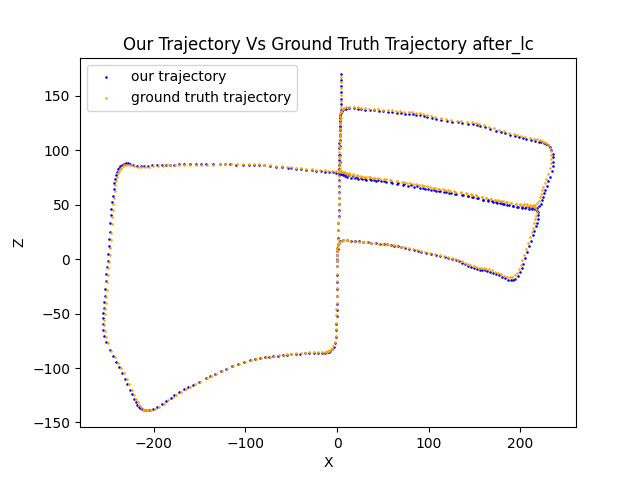
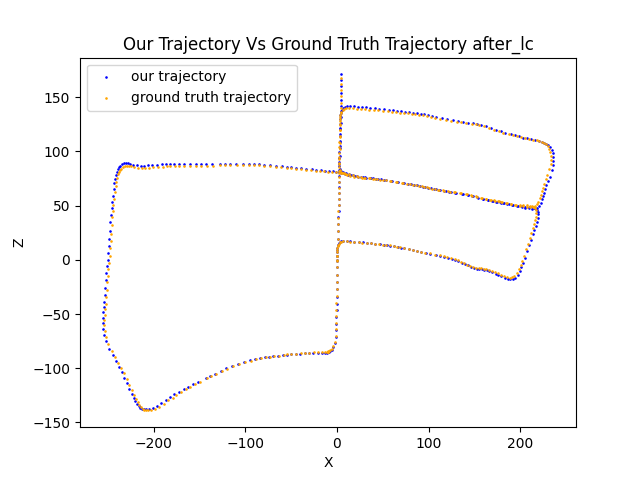
adjusted filtering in loop closure

diff --git a/models/TrajectorySolver.py b/models/TrajectorySolver.py
@@ -83,6 +83,10 @@ class TrajectorySolver:
         """
         return self.__matcher
 
+    def get_trajectory_from_poses(self, poses):
+        trajectory = np.array([pose.translation() for pose in poses])
+        return trajectory
+
 
 class PNP(TrajectorySolver):
 
@@ -93,8 +97,9 @@ class PNP(TrajectorySolver):
         super().__init__(track_db)
         self.force_recompute = force_recompute
 
-    def compare_trajectory_to_gt(self):
-        plot_trajectories(self._track_db.camera_positions, self._gt_trajectory)
+    def compare_trajectory_to_gt(self, path_suffix=""):
+        plot_trajectories(self._track_db.camera_positions, self._gt_trajectory, path=PATH_TO_SAVE_COMPARISON_TO_GT_PNP + path_suffix,
+                          suffix="(PNP)")
 
     def solve_trajectory(self):
         if self.force_recompute or self.get_deserialization_result() != SUCCESS:
@@ -138,16 +143,16 @@ class BundleAdjustment(TrajectorySolver):
         self._final_estimated_trajectory = get_trajectory_from_graph(initial_estimates)
         self._gt_trajectory = get_gt_trajectory()[key_frames]
 
-    def compare_trajectory_to_gt(self):
+    def compare_trajectory_to_gt(self, path_suffix=""):
         gt_camera_positions = get_gt_trajectory()
         try:
             plot_trajectories(camera_positions=self._final_estimated_trajectory, gt_camera_positions=gt_camera_positions,
-                              points_3d=None, path=PATH_TO_SAVE_COMPARISON_TO_GT)
+                              points_3d=None, path=PATH_TO_SAVE_COMPARISON_TO_GT_BUNDLE_ADJUSTMENT + path_suffix, suffix="(BUNDLE ADJUSTMENT)")
         except AttributeError as e:
             print(f"{e}.\nRunning solve_trajectory...")
             self.solve_trajectory()
             plot_trajectories(camera_positions=self._final_estimated_trajectory, gt_camera_positions=gt_camera_positions,
-                              points_3d=None, path=PATH_TO_SAVE_COMPARISON_TO_GT)
+                              points_3d=None, path=PATH_TO_SAVE_COMPARISON_TO_GT_BUNDLE_ADJUSTMENT + path_suffix, suffix="(BUNDLE ADJUSTMENT)")
 
     def get_rotation_error(self):
 
@@ -160,19 +165,19 @@ class BundleAdjustment(TrajectorySolver):
         #     translation, rotation = get_translation_rotation_diff(pred_pose, gt_pose)
         #     print(translation)
 
-    def get_absolute_localization_error(self):
+    def get_absolute_localization_error(self, path_suffix=""):
 
         try:
             plot_localization_error_over_time(self.key_frames, camera_positions=self._final_estimated_trajectory,
                                           gt_camera_positions=self._gt_trajectory,
-                                              path=PATH_TO_SAVE_LOCALIZATION_ERROR_BUNDLE_ADJUSTMENT,
+                                              path=PATH_TO_SAVE_LOCALIZATION_ERROR_BUNDLE_ADJUSTMENT + path_suffix,
                                               mode="Bundle Adjustment")
         except AttributeError as e:
             print(f"{e}.\nRunning solve_trajectory...")
             self.solve_trajectory()
             plot_localization_error_over_time(self.key_frames, camera_positions=self._final_estimated_trajectory,
                                               gt_camera_positions=self._gt_trajectory,
-                                              path=PATH_TO_SAVE_LOCALIZATION_ERROR_BUNDLE_ADJUSTMENT,
+                                              path=PATH_TO_SAVE_LOCALIZATION_ERROR_BUNDLE_ADJUSTMENT + path_suffix,
                                               mode="Bundle Adjustment")
 
     def get_final_estimated_trajectory(self):
@@ -183,12 +188,12 @@ class LoopClosure(TrajectorySolver):
 
     def __init__(self,track_db):
         super().__init__(track_db)
-        self.__global_3d_points_numpy = None
-        self.__global_Rt_poses_in_numpy = None
-        self.__pose_graph = None
-        self.__our_trajectory = None
-        self.__cur_pose_graph_estimates = None
-        self.__successful_lc = None
+        self._global_3d_points_numpy = None
+        self._global_Rt_poses_in_numpy = None
+        self._pose_graph = None
+        self._initial = None
+        self._cur_pose_graph_estimates = None
+        self._successful_lc = None
         self.bundle_results = None
         self.optimized_global_keyframes_poses = []
         self.bundle_3d_points = None
@@ -197,6 +202,7 @@ class LoopClosure(TrajectorySolver):
         self.key_frames = None
         self._final_estimated_trajectory = None
         self._good_mahalanobis_candidates = None
+        self._initial_trajectory = None
 
 
     def solve_trajectory(self):
@@ -210,57 +216,71 @@ class LoopClosure(TrajectorySolver):
                                                                      cond_matrices)
         kf_to_covariance = {self.key_frames[i + 1]: cond_matrices[i] for i in range(len(cond_matrices))}
         cond_matrices = [cond_matrix * 10 for cond_matrix in cond_matrices]
-        self.__initial_trajectory = optimized_global_keyframes_poses
-        self.__pose_graph, self.__cur_pose_graph_estimates, self.__successful_lc, good_ms = loop_closure(pose_graph, self.key_frames,
-                                                                           matcher=super().get_matcher(), cond_matrices=cond_matrices,
-                                                                           mahalanobis_thresh=MAHALANOBIS_THRESH,
-                                                                           pose_graph_initial_estimates=initial_estimates,
-                                                                           draw_supporting_matches_flag=False,
-                                                                           points_to_stop_by=False
-                                                                           )
+        self._initial_trajectory = self.get_trajectory_from_poses(optimized_global_keyframes_poses)
+        self._pose_graph, self._cur_pose_graph_estimates, self._successful_lc, good_ms = loop_closure(pose_graph, self.key_frames,
+                                                                                                      matcher=super().get_matcher(), cond_matrices=cond_matrices,
+                                                                                                      mahalanobis_thresh=MAHALANOBIS_THRESH,
+                                                                                                      pose_graph_initial_estimates=initial_estimates,
+                                                                                                      draw_supporting_matches_flag=False,
+                                                                                                      points_to_stop_by=False
+                                                                                                      )
         self._good_mahalanobis_candidates = [(c[1], c[2]) for c in good_ms]
+        self._final_estimated_trajectory = self.get_final_estimated_trajectory()
+        self._gt_trajectory = get_gt_trajectory()[self.key_frames]
         self.show_all_loops_on_trajectory()
-        self._final_estimated_trajectory = self.get_final_estimated_trajectory(self.__cur_pose_graph_estimates)
 
-    def compare_trajectory_to_gt(self):
+    def compare_trajectory_to_gt(self, path_suffix=""):
+        gt_camera_positions = get_gt_trajectory()
         try:
-            plot_pg_locations_before_and_after_lc(self.__pose_graph, self.__cur_pose_graph_estimates)
+            plot_trajectories(camera_positions=self._final_estimated_trajectory, gt_camera_positions=gt_camera_positions,
+                              points_3d=None, path=PATH_TO_SAVE_COMPARISON_TO_GT_LOOP_CLOSURE + path_suffix, suffix="(LOOP CLOSURE)")
         except AttributeError as e:
             print(f"{e}.\nRunning solve_trajectory...")
             self.solve_trajectory()
-            plot_pg_locations_before_and_after_lc(self.__pose_graph, self.__cur_pose_graph_estimates)
+            plot_trajectories(camera_positions=self._final_estimated_trajectory, gt_camera_positions=gt_camera_positions,
+                              points_3d=None, path=PATH_TO_SAVE_COMPARISON_TO_GT_LOOP_CLOSURE + path_suffix, suffix="(LOOP CLOSURE)")
 
-    def get_absolute_localization_error(self):
+    def get_absolute_localization_error(self, path_suffix=""):
         try:
-            plot_pg_locations_error_graph_before_and_after_lc(self.__pose_graph, self.__cur_pose_graph_estimates)
+            plot_localization_error_over_time(self.key_frames, camera_positions=self._final_estimated_trajectory,
+                                              gt_camera_positions=self._gt_trajectory,
+                                              path=PATH_TO_SAVE_LOCALIZATION_ERROR_LOOP_CLOSURE_AFTER + path_suffix,
+                                              mode="Loop Closure")
         except AttributeError as e:
             print(f"{e}.\nRunning solve_trajectory...")
             self.solve_trajectory()
-            plot_pg_locations_error_graph_before_and_after_lc(self.__pose_graph, self.__cur_pose_graph_estimates)
+            plot_localization_error_over_time(self.key_frames, camera_positions=self._final_estimated_trajectory,
+                                              gt_camera_positions=self._gt_trajectory,
+                                              path=PATH_TO_SAVE_LOCALIZATION_ERROR_LOOP_CLOSURE_AFTER + path_suffix,
+                                              mode="Loop Closure")
 
     def show_uncertainty(self):
         try:
-            plot_pg_uncertainty_before_and_after_lc(self.__pose_graph, self.__cur_pose_graph_estimates)
+            plot_pg_uncertainty_before_and_after_lc(self._pose_graph, self._cur_pose_graph_estimates)
         except AttributeError as e:
             print(f"{e}.\nRunning solve_trajectory...")
             self.solve_trajectory()
-            plot_pg_uncertainty_before_and_after_lc(self.__pose_graph, self.__cur_pose_graph_estimates)
+            plot_pg_uncertainty_before_and_after_lc(self._pose_graph, self._cur_pose_graph_estimates)
 
     def get_final_estimated_trajectory(self):
-        return get_trajectory_from_graph(self.__cur_pose_graph_estimates)
+        return get_trajectory_from_graph(self._cur_pose_graph_estimates)
 
     def get_successful_lc(self):
-        return self.__successful_lc
+        return self._successful_lc
 
     def show_loop_between_two_keyframes(self, kf_1, kf_2, suffix=""):
-        assert (kf_1, kf_2) in self.__successful_lc or (kf_2, kf_1) in self.__successful_lc, "Can only show existing loop..."
+        assert (kf_1, kf_2) in self._successful_lc or (kf_2, kf_1) in self._successful_lc, "Can only show existing loop..."
         from utils.plotters import plot_loop_between_two_frames
         plot_loop_between_two_frames(self._final_estimated_trajectory, kf_1, kf_2, self.key_frames, path=f"plots/lc_{suffix}_")
 
-    def show_all_loops_on_trajectory(self, suffix=""):
+    def show_all_loops_on_trajectory(self, trajectory=None, suffix=""):
         from utils.plotters import plot_trajectory_with_loops
-        plot_trajectory_with_loops(self.get_final_estimated_trajectory(), self.__successful_lc, path=f"plots/lc_{suffix}_")
+        if trajectory is None:
+            trajectory = self._final_estimated_trajectory if self._final_estimated_trajectory is not None else self._initial_trajectory
+        plot_trajectory_with_loops(trajectory, self._successful_lc, path=f"plots/lc_{suffix}_")
 
-    def show_given_loops_on_trajectory(self, given_loops, suffix="given_loops"):
+    def show_given_loops_on_trajectory(self, given_loops, trajectory=None, suffix="given_loops"):
         from utils.plotters import plot_trajectory_with_loops
-        plot_trajectory_with_loops(self.get_final_estimated_trajectory(), given_loops, path=f"plots/lc_{suffix}_")
+        if trajectory is None:
+            trajectory = self._final_estimated_trajectory if self._final_estimated_trajectory is not None else self._initial_trajectory
+        plot_trajectory_with_loops(trajectory, given_loops, path=f"plots/lc_{suffix}_")

diff --git a/models/LoopClosure.py b/models/LoopClosure.py
@@ -28,8 +28,8 @@ def edge_cost_func(cond_mat=None, equal=False):
         return 0.000000001 * np.sqrt(1 / np.linalg.det(10 * cond_mat))
 
 
-def init_graph_for_shortest_path(pose_graph, key_frames, cond_matrices):
-    graph_for_shortest_path = dijkstar.Graph()
+def init_graph_for_shortest_path(pose_graph, key_frames, cond_matrices, undirected=False):
+    graph_for_shortest_path = dijkstar.Graph(undirected=undirected)
     edge_to_covariance = {}
     costs = []
     for i in range(len(key_frames) - 1):
@@ -53,7 +53,8 @@ def estimate_covariance_by_path(path, edge_to_covariance):
     for i in range(len(path) - 1):
         first = path[i]
         second = path[i + 1]
-        estimated_cov += edge_to_covariance[(first, second)]
+        edge = (first, second) if (first, second) in edge_to_covariance else (second, first)
+        estimated_cov += edge_to_covariance[edge]
     return estimated_cov
 
 
@@ -188,24 +189,31 @@ def solve_trivial_bundle(reference_kf, candidate_kf, matching_data):
     factor_graph, initial_estimates, landmarks = create_trivial_factor_graph(reference_kf, candidate_kf, Rt, filtered_tracks)
     optimizer = gtsam.LevenbergMarquardtOptimizer(factor_graph, initial_estimates)
     try:
+        conditional_covariance = np.eye(6)
         optimized_estimates = optimizer.optimize()
+        key_vectors = gtsam.KeyVector()
+        key_vectors.append(gtsam.symbol(CAMERA, candidate_kf))
+        key_vectors.append(gtsam.symbol(CAMERA, reference_kf))  # TODO maybe its the other way around...
+        try:
+            bundle_joint_covariance = gtsam.Marginals(factor_graph, optimized_estimates)
+            information_mat_cick = bundle_joint_covariance.jointMarginalInformation(key_vectors).fullMatrix()
+            conditional_covariance = np.linalg.inv(information_mat_cick[6:, 6:])
+        except RuntimeError as e:
+            print('\033[91m' + f"Caught Exception When Calculating Marginals: {e}" + '\033[0m')
+
+        relative_pose = get_relative_pose_between_frames(candidate_kf, reference_kf,
+                                                         optimized_estimates)  # I think we want reference relative to candidate
+        return relative_pose, conditional_covariance, factor_graph, optimized_estimates
     except RuntimeError as e:
-        print(e)
+        print('\033[91m' + f"Caught Exception When Optimizing Trivial Bundle: {e}" + '\033[0m')
         return None
-    key_vectors = gtsam.KeyVector()
-    key_vectors.append(gtsam.symbol(CAMERA, candidate_kf))
-    key_vectors.append(gtsam.symbol(CAMERA, reference_kf))  # TODO maybe its the other way around...
-    bundle_joint_covariance = gtsam.Marginals(factor_graph, optimized_estimates)
-    information_mat_cick = bundle_joint_covariance.jointMarginalInformation(key_vectors).fullMatrix()
-    conditional_covariance = np.linalg.inv(information_mat_cick[6:, 6:])
-    relative_pose = get_relative_pose_between_frames(candidate_kf, reference_kf, optimized_estimates) # I think we want reference relative to candidate
-    return relative_pose, conditional_covariance, factor_graph, optimized_estimates
+
 
 
 def loop_closure(pose_graph, key_frames, cond_matrices, pose_graph_initial_estimates, matcher,
                  mahalanobis_thresh=MAHALANOBIS_THRESH, max_candidates_num=5, min_diff_between_loop_frames=30,
                  req_inliers_ratio=0.85, draw_supporting_matches_flag=False, points_to_stop_by=False,
-                 compare_to_gt=False, show_localization_error=False, show_uncertainty=False):
+                 compare_to_gt=False, show_localization_error=False, show_uncertainty=False, minimal_number_of_visual_matches=30):
     graph_for_shortest_path, edge_to_covariance = \
         init_graph_for_shortest_path(pose_graph=pose_graph, key_frames=key_frames, cond_matrices=cond_matrices)
     cur_pose_graph_estimates = pose_graph_initial_estimates
@@ -241,18 +249,19 @@ def loop_closure(pose_graph, key_frames, cond_matrices, pose_graph_initial_estim
         if len(candidates_with_small_m_distance) > 0:
             print(f"for the {i}th KeyFrame, found {len(candidates_with_small_m_distance)} candidates to perform visual odometry with.\nContinuing with {min(max_candidates_num, len(candidates_with_small_m_distance))} best candidates")
         best_candidates = candidates_with_small_m_distance[:max_candidates_num]
-        best_candidates = [candidate[1] for candidate in best_candidates]
         # Step 2: perform consensus matching between current frame and relevant candidates
         candidates_after_consensus_matching = []
         should_optimize = False
-        for candidate in best_candidates:
+        for m_dist, candidate in best_candidates:
             candidate_kf = key_frames[candidate]
             Rt, filtered_tracks, inliers_ratio, matches, supporting_indices = consensus_matching_of_general_two_frames(reference_kf, candidate_kf, matcher)
             if Rt is None:
                 print(f"didn't find good transformation between {i}th kf and {candidate}th kf")
                 continue
             print(f"number of tracks between {i}th kf and {candidate}th kf after consensus matching is {len(filtered_tracks)}, with inliers ratio of {inliers_ratio}")
-            if inliers_ratio > req_inliers_ratio:
+            cur_req_inliers_ratio = get_inlier_ratio_threshold(m_dist, mahalanobis_thresh)
+            print(f"required inliers ratio for this candidate is {cur_req_inliers_ratio}, and total number of matches in it is {len(matches)}")
+            if inliers_ratio >= cur_req_inliers_ratio and len(matches) >= minimal_number_of_visual_matches:
                 if draw_supporting_matches_flag:
                     # draw_supporting_matches_general(candidate_kf, reference_kf, matcher, matches, supporting_indices)
                     draw_supporting_matches_flag = False
@@ -302,6 +311,10 @@ def loop_closure(pose_graph, key_frames, cond_matrices, pose_graph_initial_estim
     print(f"Overall, {len(successful_lc)} loop closures were detected.")
 
     return pose_graph, cur_pose_graph_estimates, successful_lc, good_ms
+
+
+def get_inlier_ratio_threshold(distance, mahalanobis_threshold):
+    return min(0.93, 0.7 + 0.5 * np.sqrt(distance / mahalanobis_threshold))
 
 
 def get_trajectory_from_graph(values):

diff --git a/models/Constants.py b/models/Constants.py
@@ -36,7 +36,7 @@ INITIAL_ESTIMATES_INDEX = 3
 LANDMARKS_INDEX = 4
 OPTIMIZED_ESTIMATES_INDEX = 5
 MARGINALS_INDEX = 6
-MAHALANOBIS_THRESH = 100000
+MAHALANOBIS_THRESH = 50000
 
 PATH_TO_SAVE_TRACKER_FILE = "models/serialized_tracker"
 PATH_TO_SAVE_BUNDLE_ADJUSTMENT_RESULTS = "models/bundle_adjustment_results_5"
